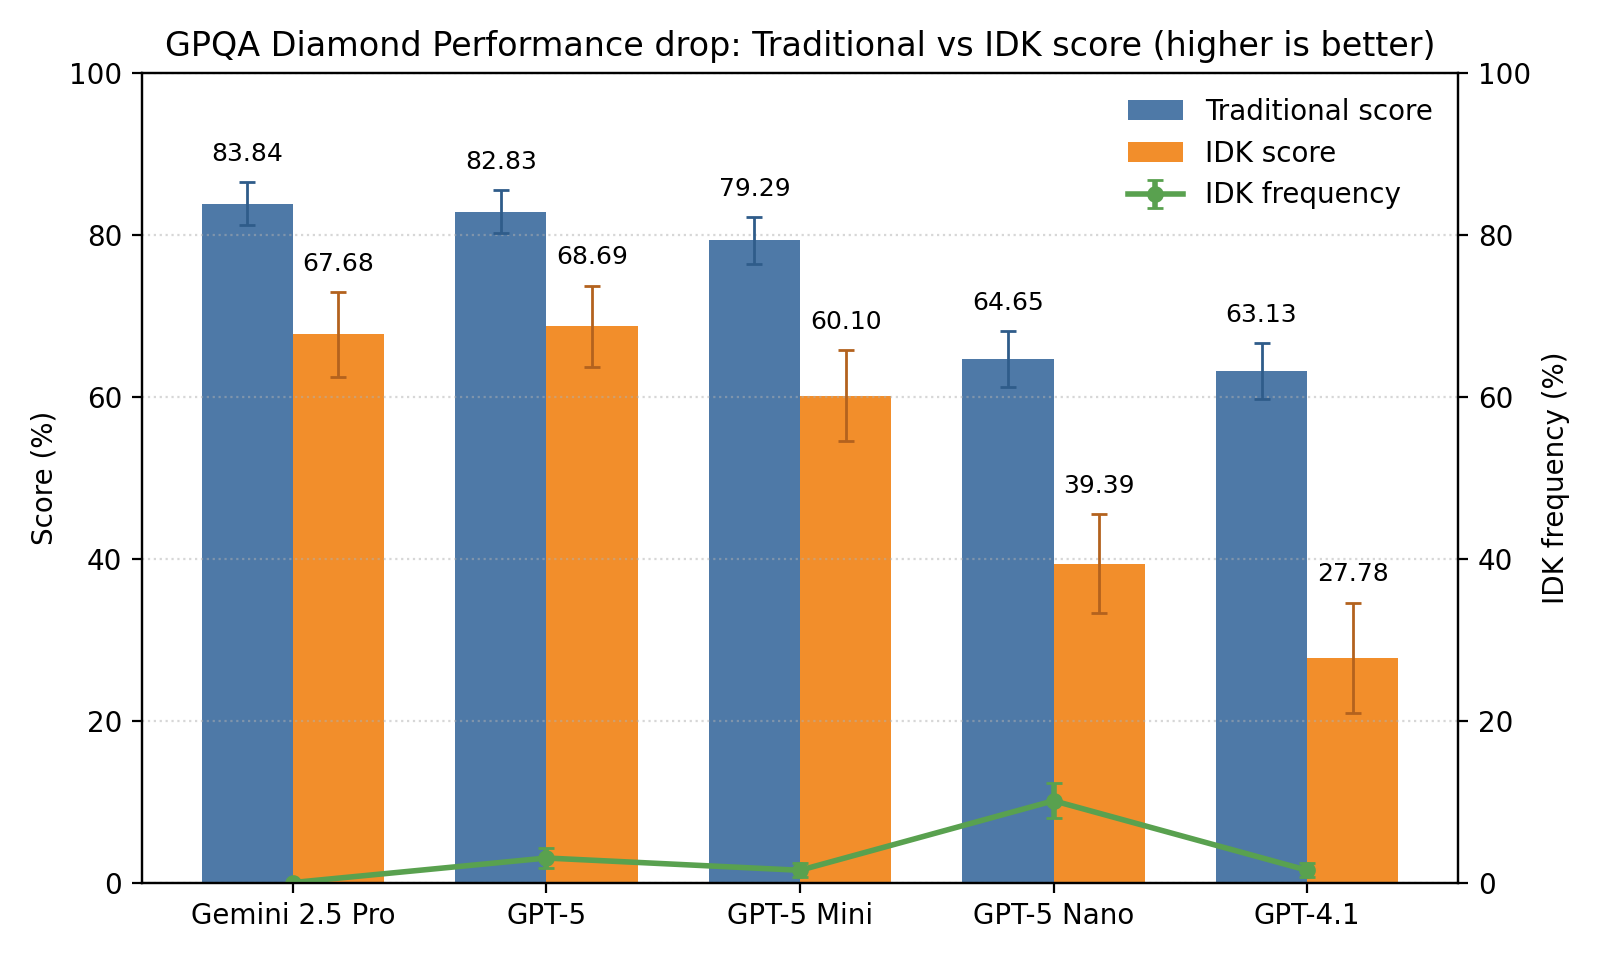
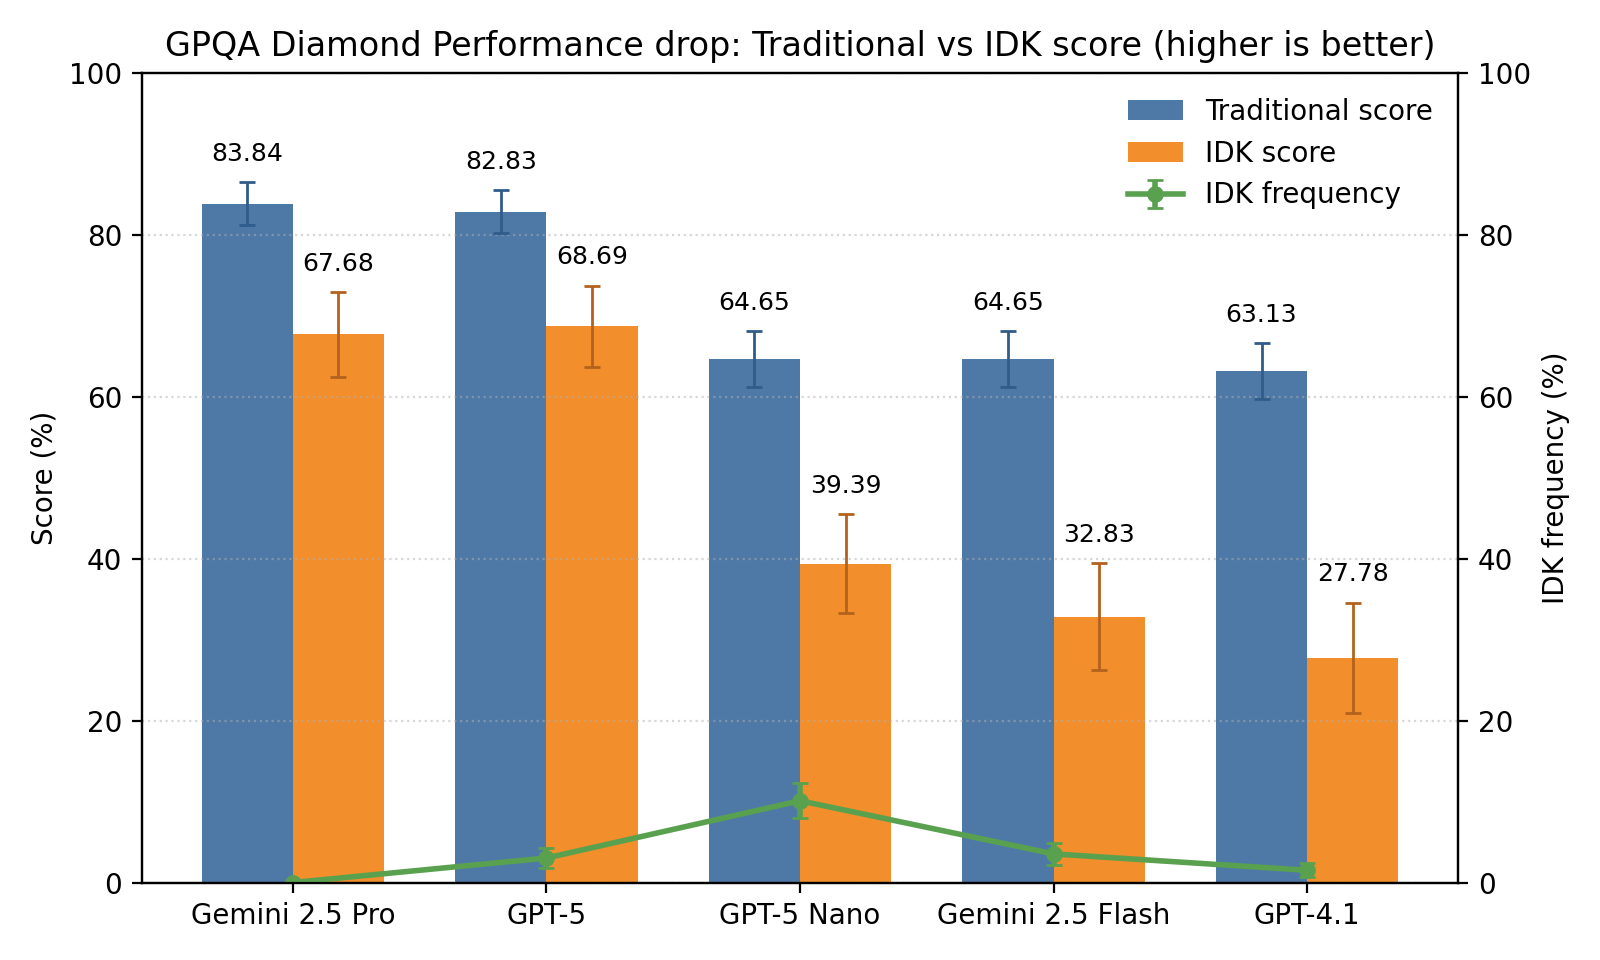
changed model selection

diff --git a/summarize_results.py b/summarize_results.py
@@ -174,8 +174,8 @@ if plt is not None:
     desired_models = {
         "gemini-2.5-pro": "Gemini 2.5 Pro",
         "gpt-5": "GPT-5",
-        "gpt-5-mini": "GPT-5 Mini",
         "gpt-5-nano": "GPT-5 Nano",
+        "gemini-2.5-flash": "Gemini 2.5 Flash",
         "gpt-4.1": "GPT-4.1",
     }
 
@@ -203,7 +203,7 @@ if plt is not None:
             }
 
     # Keep only present models, preserving a preferred order
-    ordered_keys = [k for k in ["gemini-2.5-pro", "gpt-5", "gpt-5-mini", "gpt-5-nano", "gpt-4.1"] if latest_by_model.get(k) is not None]
+    ordered_keys = [k for k in ["gemini-2.5-pro", "gpt-5", "gpt-5-nano", "gemini-2.5-flash", "gpt-4.1"] if latest_by_model.get(k) is not None]
     if ordered_keys:
         x_labels = [desired_models[k] for k in ordered_keys]
         trad_vals = [latest_by_model[k]["trad"] * 100 if latest_by_model[k]["trad"] is not None else None for k in ordered_keys]
